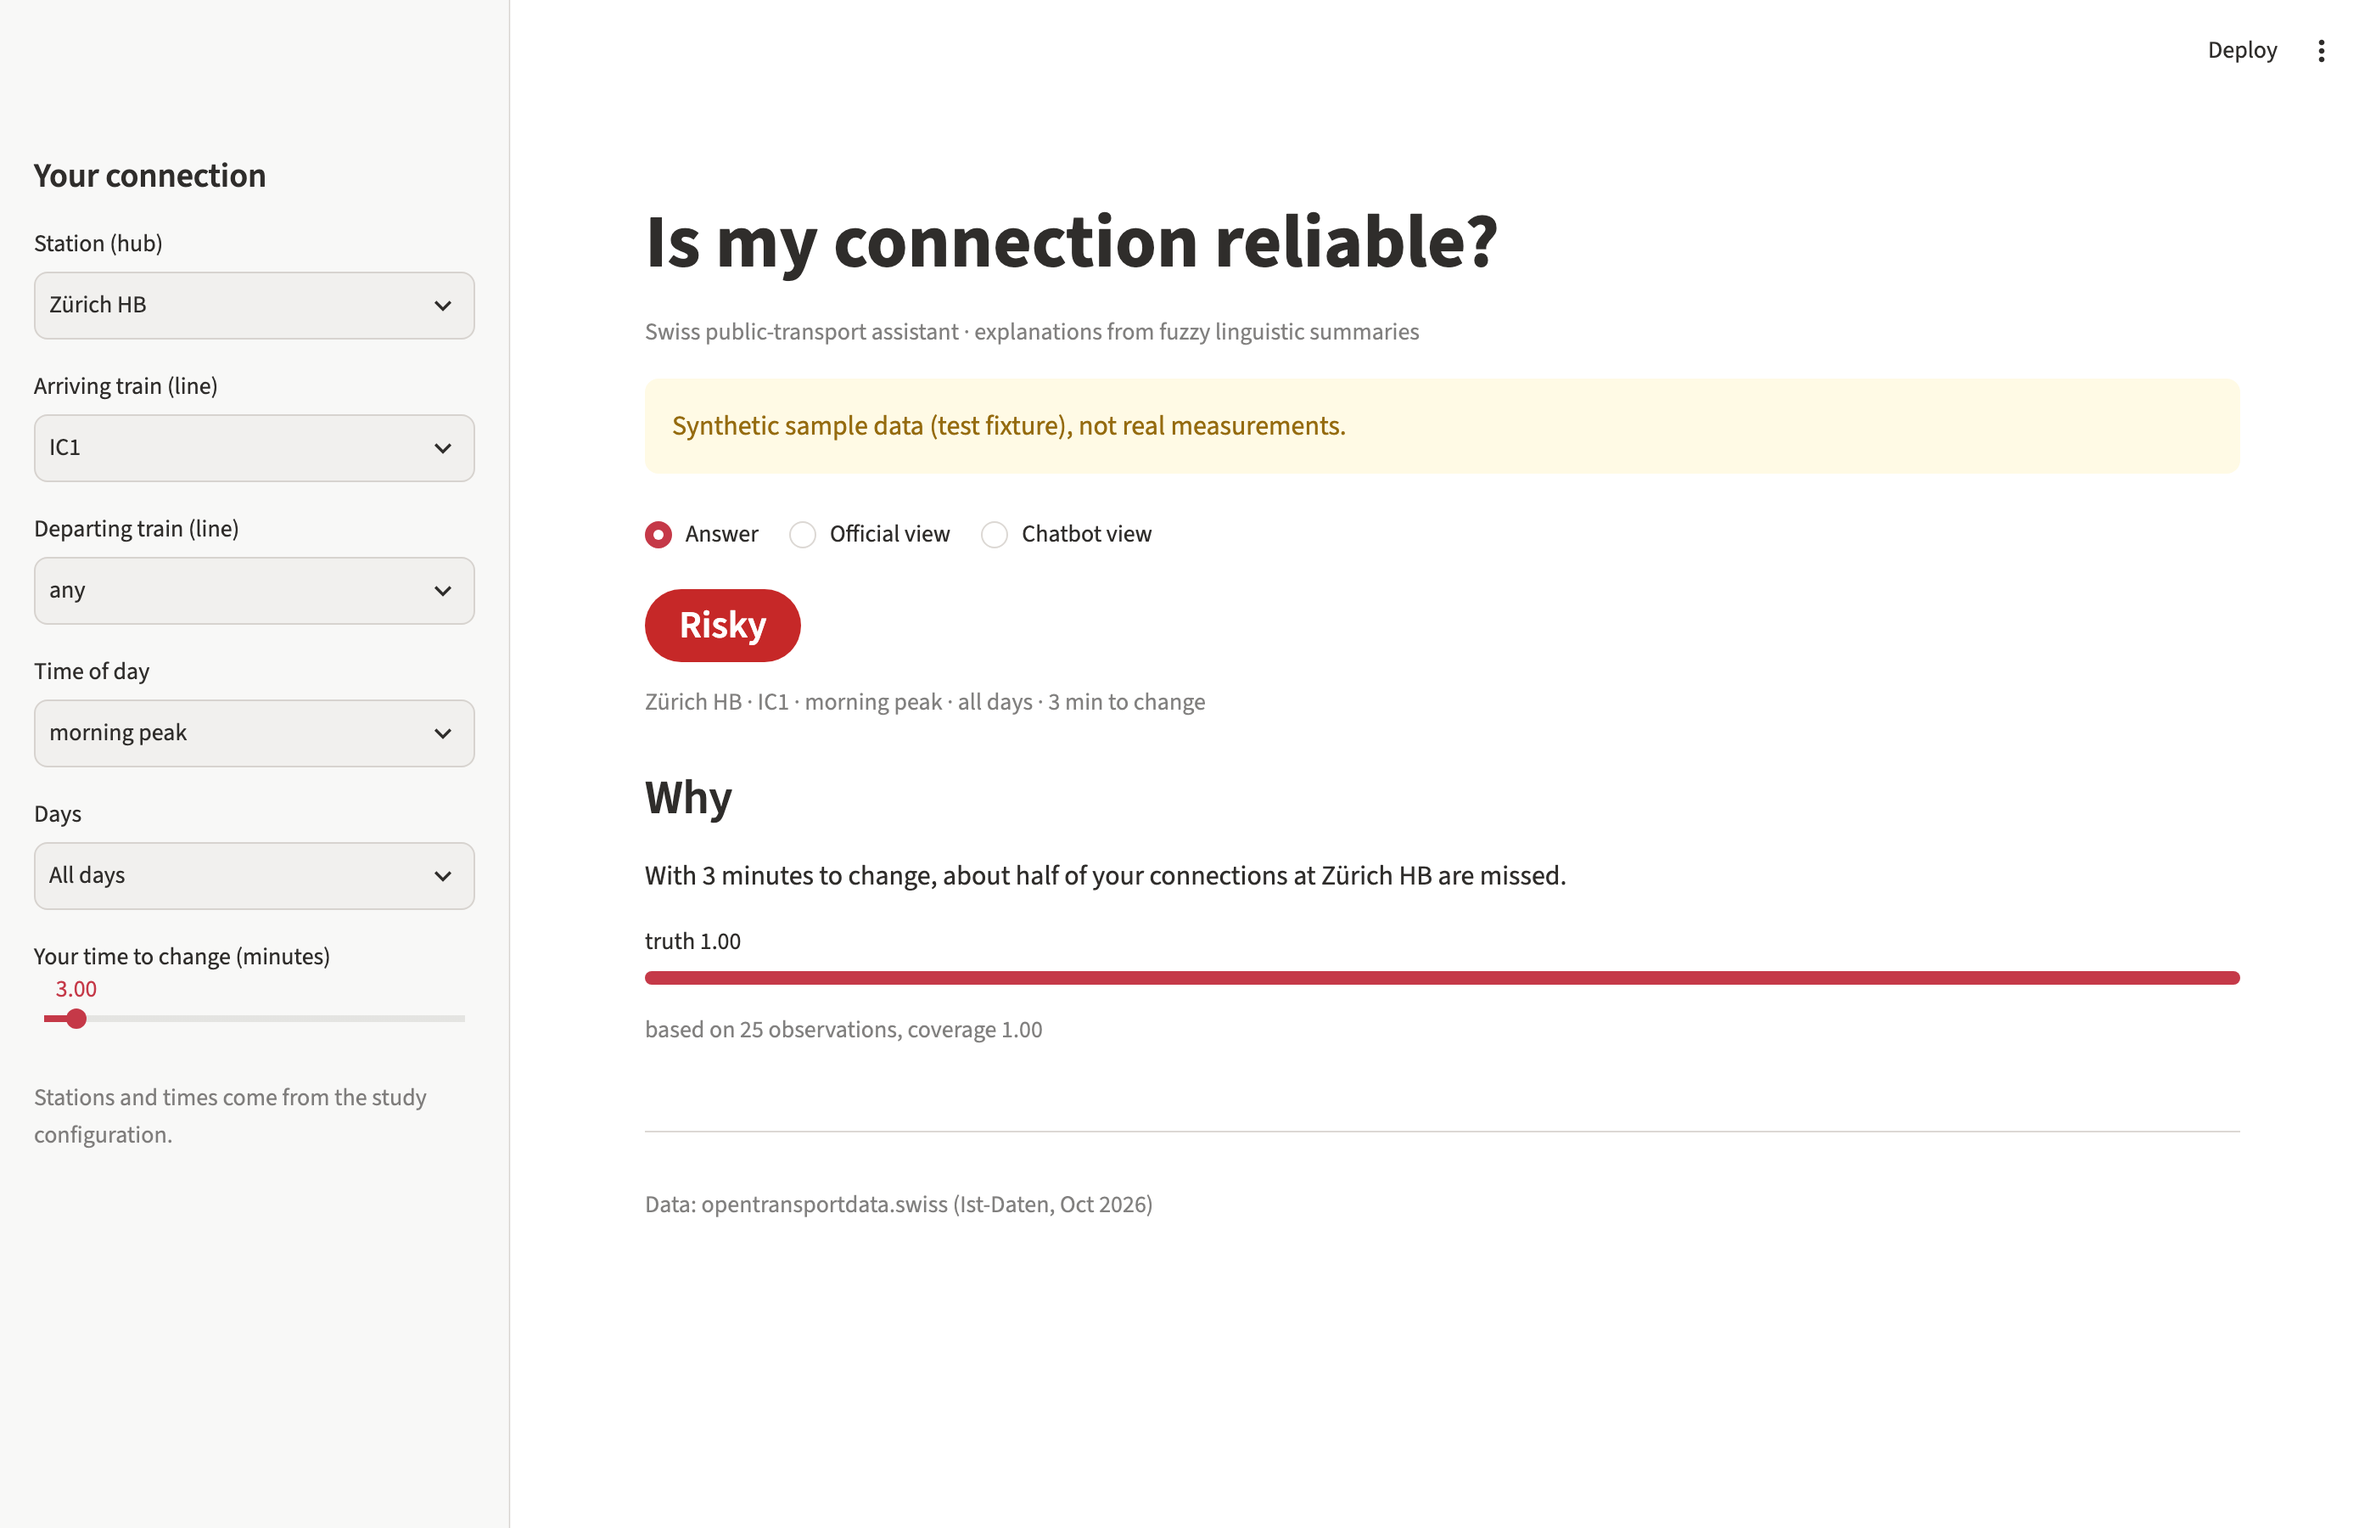
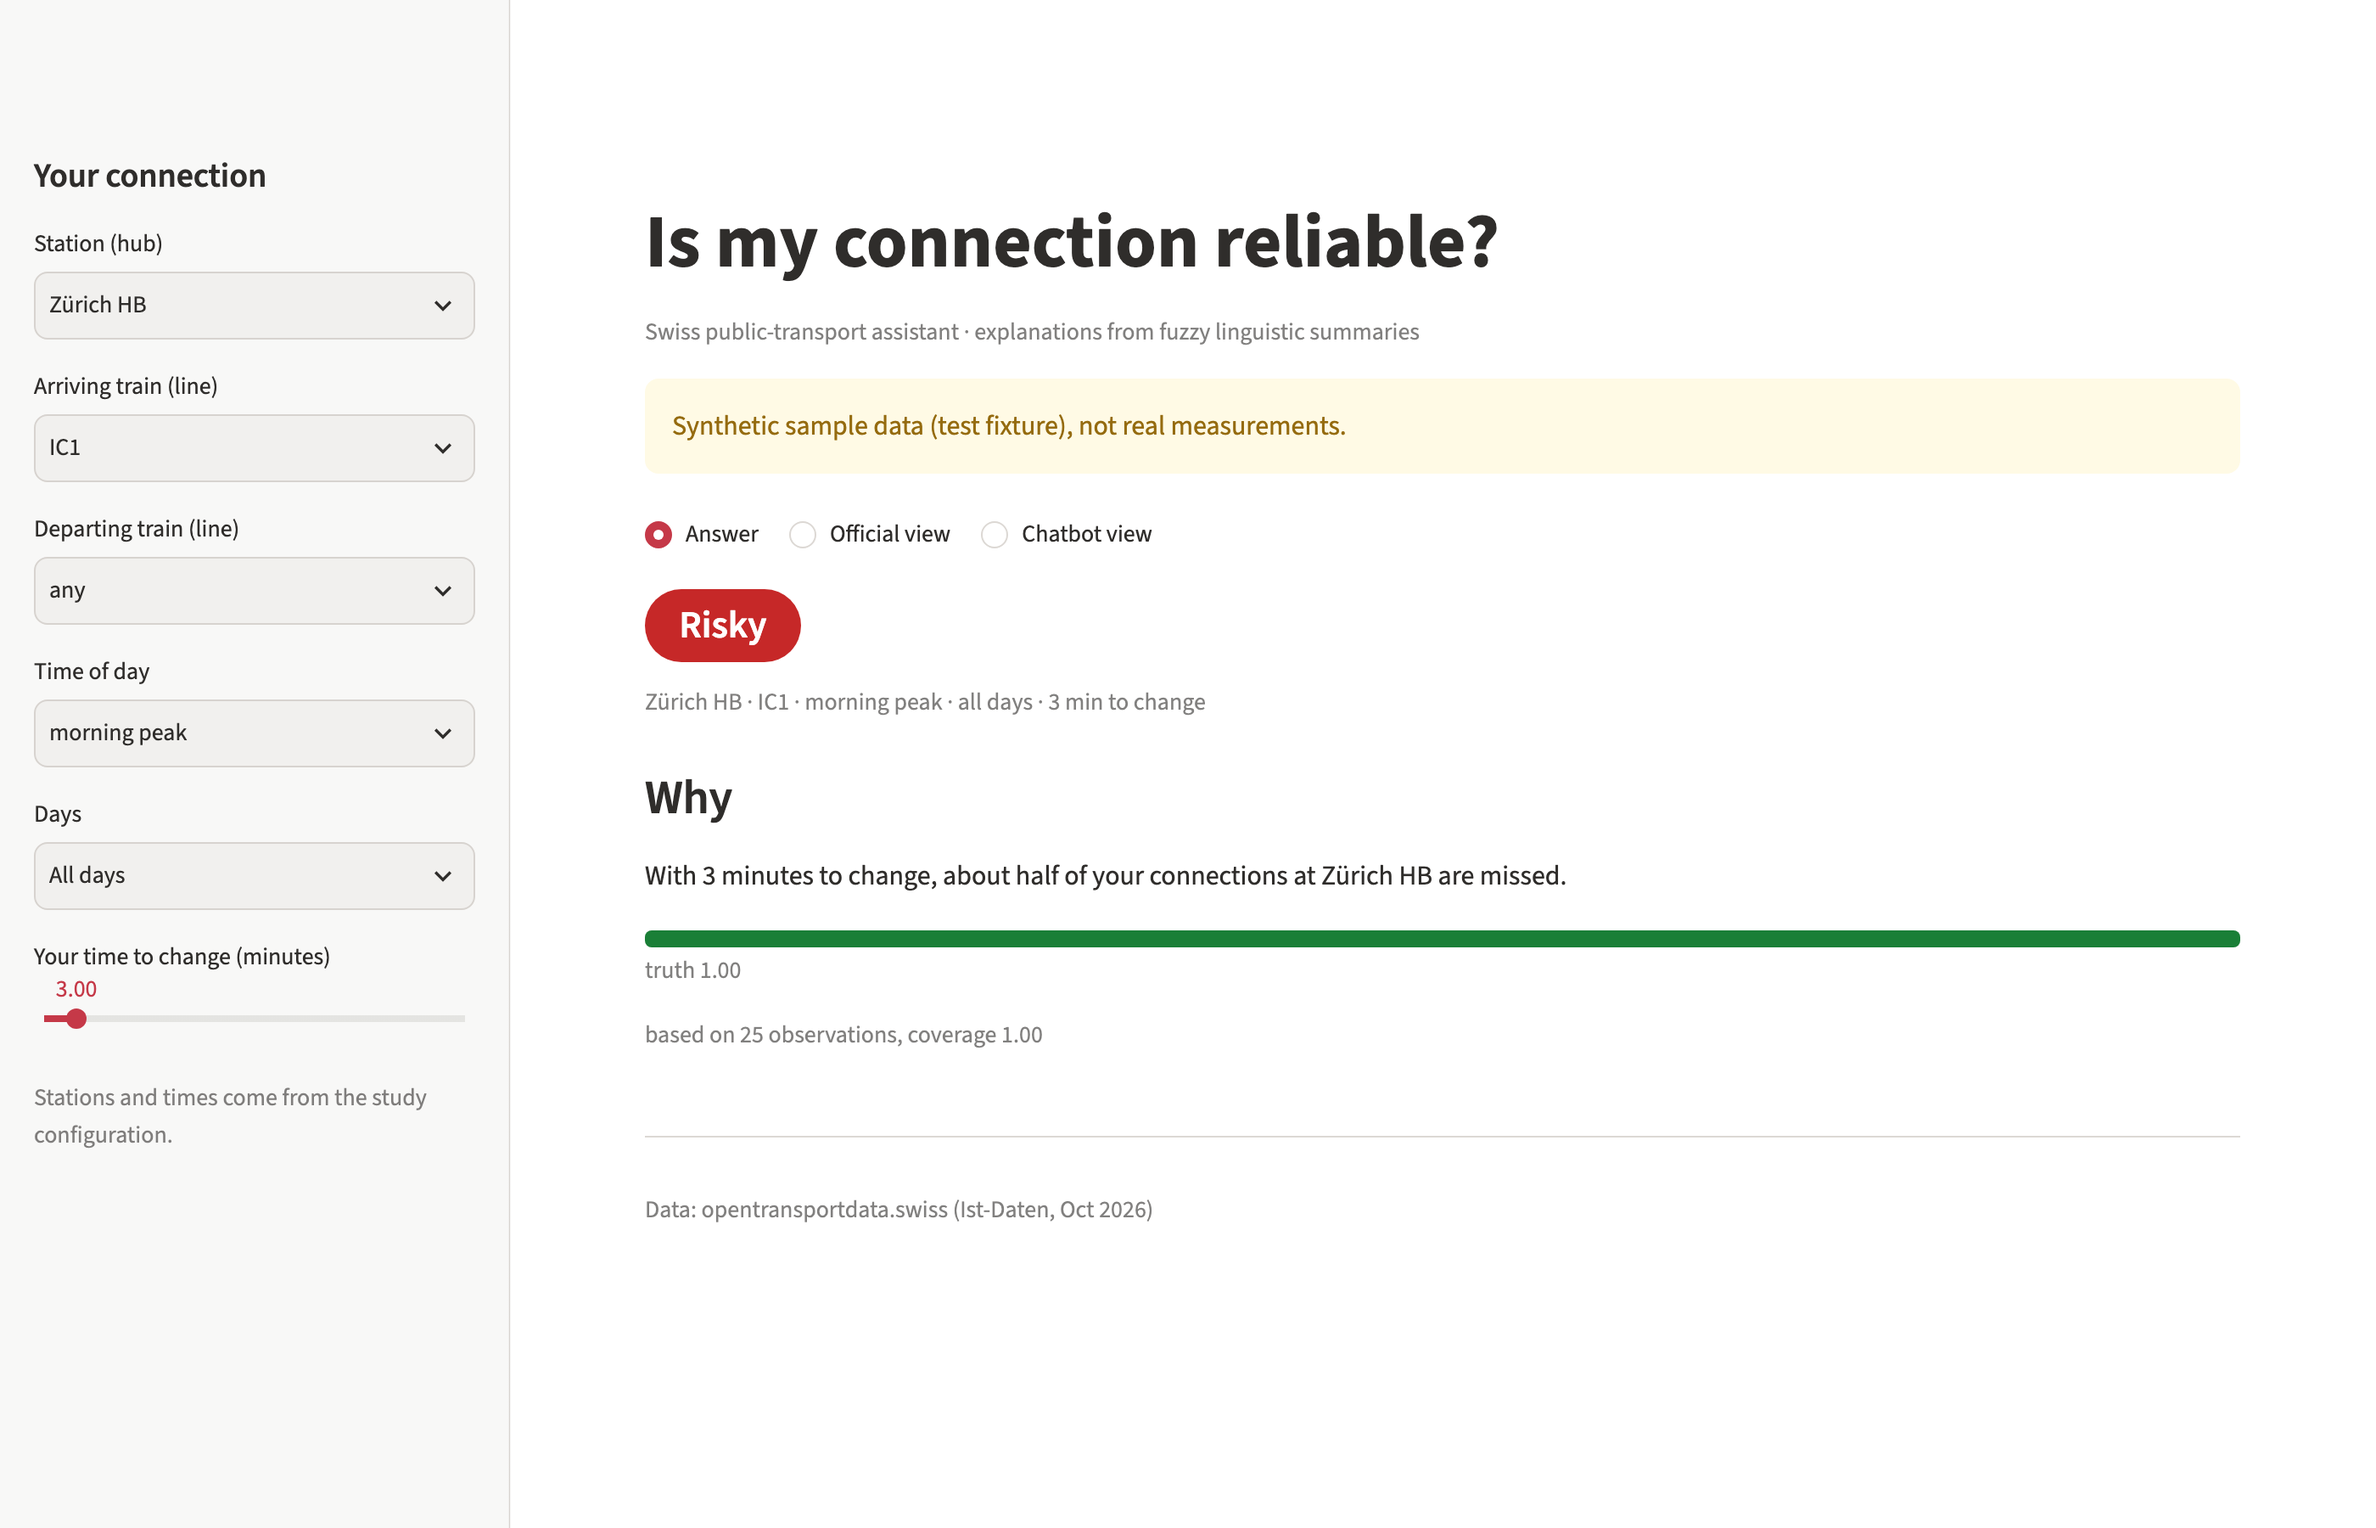
UC-060: address review — badge-coloured truth bars, own sentence in the Official view
1. Truth bars use the badge colour (green / amber / red) via render.truth_bar_html
   instead of st.progress's theme colour; a fully true sentence is green even next to a
   "Risky" badge. Tests: colour follows the badge, green bar on a risky answer, app view.
2. Official view: "Your view" shows the passenger's own sentence(s)
   (answer_view_model["own_sentences"]: p_miss sentence or measured share) next to the
   crisp sentences. Tests: view model and app.
Nit: screenshots without the Deploy toolbar (--client.toolbarMode minimal); PNGs retaken.

Changed region(s): [[0.2796, 0.5911, 0.9632, 0.6844], [0.2796, 0.7778, 0.4971, 0.8089], [0.9321, 0.0311, 0.9632, 0.0622]]

diff --git a/tests/test_render.py b/tests/test_render.py
@@ -14,10 +14,12 @@ import yaml
 from tests import factories
 from urban_computing.assistant.contract import Answer, Explanation, Provenance
 from urban_computing.assistant.render import (
+    BADGE_HEX,
     answer_view_model,
     chatbot_view_model,
     footer_text,
     truth_badge,
+    truth_bar_html,
 )
 from urban_computing.llm.checkers import CheckResult
 from urban_computing.llm.parser import Claim
@@ -46,8 +48,8 @@ def _numbers(text: str) -> set[str]:
 
 
 def _strings(obj) -> list[str]:
-    if isinstance(obj, dict):
-        return [s for v in obj.values() for s in _strings(v)]
+    if isinstance(obj, dict):  # bar_html is styling (CSS sizes / colours), not shown numbers
+        return [s for k, v in obj.items() if k != "bar_html" for s in _strings(v)]
     if isinstance(obj, list):
         return [s for v in obj for s in _strings(v)]
     return [obj] if isinstance(obj, str) else []
@@ -217,8 +219,10 @@ def test_app_runs_on_the_fixture(monkeypatch, view):
     md = " ".join(m.value for m in at.markdown)
     if view == "answer":
         assert "about half of your connections at Zürich HB are missed" in md
+        assert BADGE_HEX["green"] in md  # truth 1.00 -> green bar, not the theme's red
     elif view == "official":
         assert "13 of 25 arrivals were 3 or more minutes late." in md
+        assert "about half of your connections at Zürich HB are missed" in md  # side by side
     else:
         assert "No cached chatbot answer" in md
 
@@ -227,3 +231,40 @@ def test_answer_json_round_trip_keeps_view_model():
     ans = factories.sample_answer()
     again = Answer.model_validate(json.loads(ans.model_dump_json()))
     assert answer_view_model(again) == answer_view_model(ans)
+
+
+# --------------------------------------------------------------------- review #58
+
+
+@pytest.mark.parametrize("truth,badge", [(1.0, "green"), (0.45, "amber"), (0.1, "red")])
+def test_truth_bar_colour_follows_the_badge(truth, badge):
+    ex = factories.sample_answer().explanations[0].model_copy(update={"truth": truth})
+    vm = answer_view_model(factories.sample_answer(decision="risky", explanations=[ex]))
+    e = vm["explanations"][0]
+    assert e["badge"] == badge
+    assert e["bar_html"] == truth_bar_html(truth, badge)
+    assert BADGE_HEX[badge] in e["bar_html"]
+    others = {c for b, c in BADGE_HEX.items() if b != badge}
+    assert not any(c in e["bar_html"] for c in others)
+    assert f"width:{round(100 * truth, 1)}%" in e["bar_html"]
+
+
+def test_fully_true_sentence_is_green_even_when_the_decision_is_risky():
+    vm = answer_view_model(factories.sample_answer(decision="risky"))
+    assert vm["decision"]["color"] == "red"
+    ex = factories.sample_answer().explanations[0].model_copy(update={"truth": 1.0})
+    vm = answer_view_model(factories.sample_answer(decision="risky", explanations=[ex]))
+    assert BADGE_HEX["green"] in vm["explanations"][0]["bar_html"]
+
+
+def test_own_sentences_for_the_official_side_by_side():
+    own = Explanation(sentence="With 4 minutes to change, few of your connections at Olten are "
+                      "missed.", quantifier="few", summarizer="connection_slack_minutes:missed",
+                      restriction="own_connections", truth=1.0, coverage=1.0, n=30)  # fmt: skip
+    mined = factories.sample_answer().explanations[0]  # restriction hub=Olten&...
+    vm = answer_view_model(factories.sample_answer(explanations=[own, mined]))
+    assert vm["own_sentences"] == [own.sentence]
+    fallback = own.model_copy(update={"restriction": "own_arrivals", "sentence": "x"})
+    assert answer_view_model(factories.sample_answer(explanations=[fallback]))["own_sentences"] == [
+        "x"
+    ]

diff --git a/src/urban_computing/assistant/render.py b/src/urban_computing/assistant/render.py
@@ -18,6 +18,8 @@ DECISION_LABEL = {"safe": "Safe", "at_risk": "At risk", "risky": "Risky"}
 DECISION_COLOR = {"safe": "green", "at_risk": "orange", "risky": "red"}
 SOURCE = "opentransportdata.swiss (Ist-Daten, {month})"
 COUNT_QUANTIFIER = "count"  # measured-share sentence of the engine (UC-031)
+OWN_RESTRICTIONS = ("own_connections", "own_arrivals")  # engine's own-segment markers
+BADGE_HEX = {"green": "#1a7f37", "amber": "#b26a00", "red": "#c62828", "gray": "#6e7781"}
 
 
 def truth_badge(truth: float) -> str:
@@ -27,6 +29,17 @@ def truth_badge(truth: float) -> str:
     if truth >= AMBER:
         return "amber"
     return "red"
+
+
+def truth_bar_html(fraction: float, badge: str) -> str:
+    """A truth bar coloured by its badge (green / amber / red), not by the app theme, so a
+    fully true sentence never looks like an alarm (PM review of #58). Pure HTML string."""
+    pct = round(100 * max(0.0, min(1.0, fraction)), 1)
+    color = BADGE_HEX[badge]
+    return (
+        "<div style='background:#e6e6e6;border-radius:4px;height:10px;width:100%'>"
+        f"<div style='background:{color};width:{pct}%;height:10px;border-radius:4px'></div></div>"
+    )
 
 
 def _month(period: str) -> str:
@@ -64,8 +77,10 @@ def answer_view_model(ans: Answer) -> dict:
 
     Keys: question (one line), decision {word, label, color}, explanations [{sentence,
     truth (2 decimals) or None for a measured-share sentence, truth_value, badge, bar
-    (0..1), coverage text or None, n, n_text}], official {decision, label, color,
-    sentences} or None, fallback_note or None, period, footer.
+    (0..1), bar_html (bar in the badge colour) or None, coverage text or None, n, n_text}],
+    own_sentences (the sentences on the passenger's own connections / arrivals, for the
+    side-by-side Official view), official {decision, label, color, sentences} or None,
+    fallback_note or None, period, footer.
     """
     explanations = []
     for e in ans.explanations:
@@ -77,6 +92,7 @@ def answer_view_model(ans: Answer) -> dict:
                 "truth_value": None if is_count else e.truth,
                 "badge": None if is_count else truth_badge(e.truth),
                 "bar": None if is_count else max(0.0, min(1.0, e.truth)),
+                "bar_html": None if is_count else truth_bar_html(e.truth, truth_badge(e.truth)),
                 "coverage": None if e.coverage is None or is_count else f"{e.coverage:.2f}",
                 "n": e.n,
                 "n_text": f"based on {e.n} observations",
@@ -98,6 +114,9 @@ def answer_view_model(ans: Answer) -> dict:
             "color": DECISION_COLOR[ans.decision],
         },
         "explanations": explanations,
+        "own_sentences": [
+            e.sentence for e in ans.explanations if e.restriction in OWN_RESTRICTIONS
+        ],
         "official": official,
         "fallback_note": (
             "Based on arrival delays only, because too few matching connections were found."

diff --git a/app/main.py b/app/main.py
@@ -112,7 +112,8 @@ def _answer_view(vm: dict) -> None:
         if e["truth"] is None:
             st.caption(f"Measured share, {e['n_text']}.")
         else:
-            st.progress(e["bar"], text=f"truth {e['truth']}")
+            st.markdown(e["bar_html"], unsafe_allow_html=True)
+            st.caption(f"truth {e['truth']}")
             cov = f", coverage {e['coverage']}" if e["coverage"] else ""
             st.caption(f"{e['n_text']}{cov}")
     if vm["fallback_note"]:
@@ -127,6 +128,8 @@ def _official_view(vm: dict) -> None:
             _badge(vm["decision"]["label"], vm["decision"]["color"]), unsafe_allow_html=True
         )
         st.caption("Based on your time to change.")
+        for s in vm["own_sentences"]:
+            st.markdown(s)
     with right:
         st.subheader("Official view")
         if vm["official"] is None:

diff --git a/app/screenshots.py b/app/screenshots.py
@@ -1,7 +1,7 @@
 """Reproduce paper/figures/app_*.png (UC-060) with headless Chrome over the DevTools protocol.
 
     uv run streamlit run app/main.py --server.headless true --server.port 8599 \\
-        --theme.base light -- --sample &
+        --theme.base light --client.toolbarMode minimal -- --sample &
     uv run python app/screenshots.py --url http://localhost:8599 --chrome "/path/to/chrome"
 
 Waits until the page shows its data footer (the app has finished rendering), then captures.
